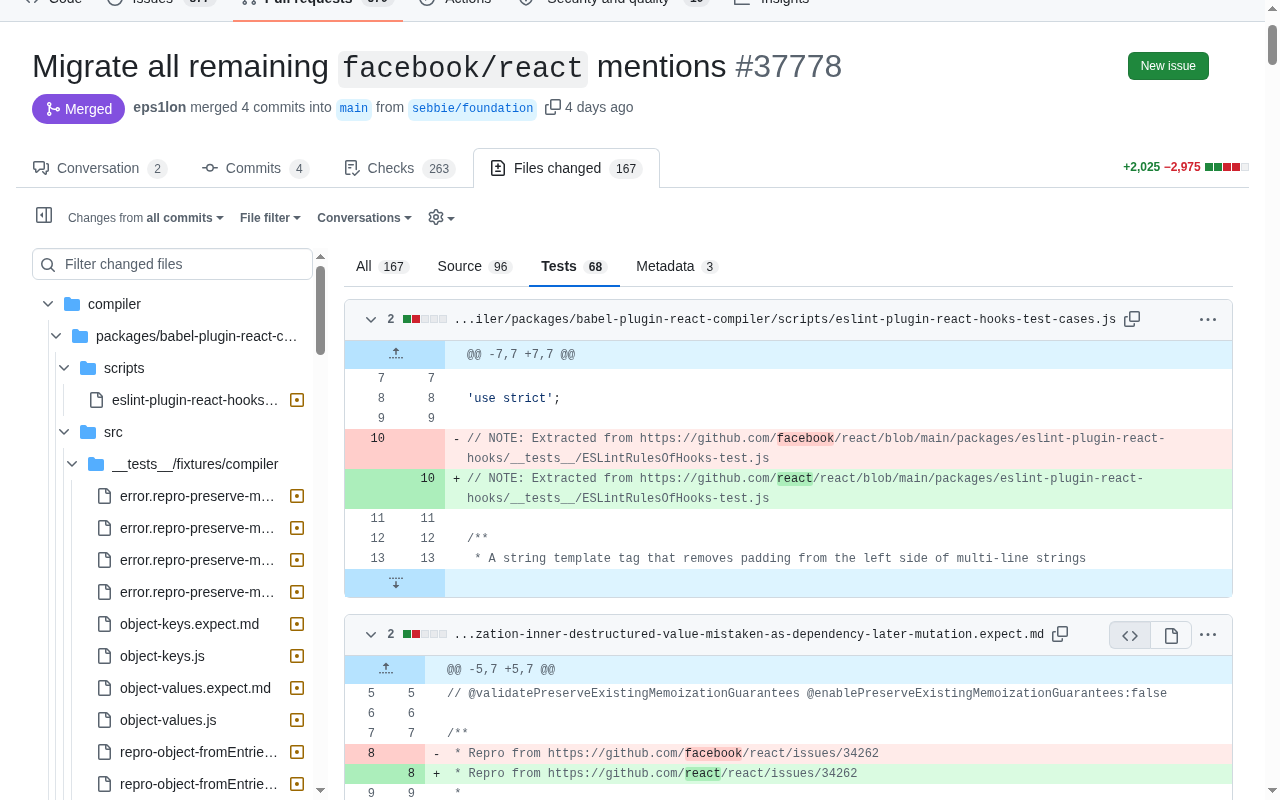
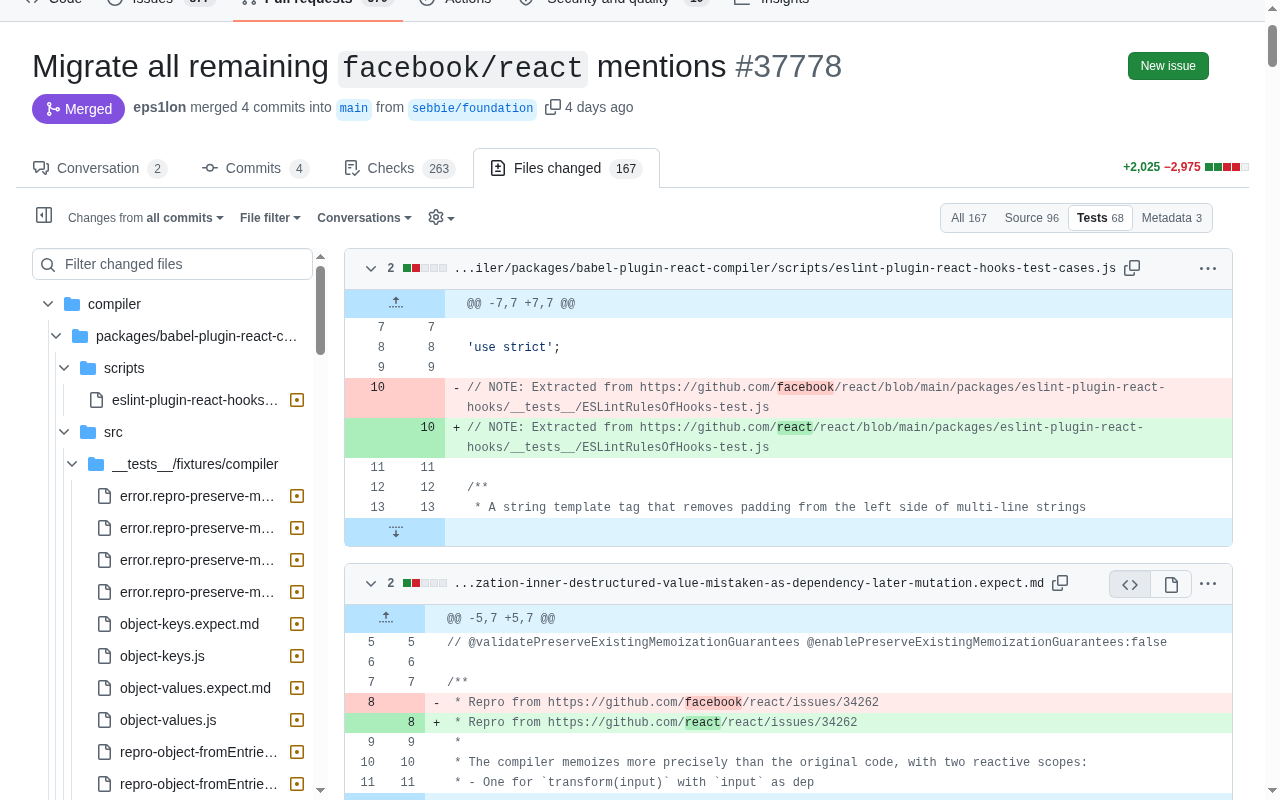
Put the classic page tabs on the "Changes from all commits" row
The tab bar now sits at the end of the classic sticky toolbar row, right-aligned,
and collapses to a dropdown when the row wraps. Retake the classic store screenshot.

Changed region(s): [[0.25, 0.25, 0.9688, 1.0]]

diff --git a/content.js b/content.js
@@ -396,11 +396,28 @@
     fit(bar);
   }
 
+  // The classic page's sticky toolbar row ("Changes from all commits", File filter, ...).
+  function classicRow() {
+    return document.querySelector('.pr-toolbar .diffbar .d-flex.flex-items-center.flex-wrap');
+  }
+
   // Collapse the buttons into a dropdown when the toolbar row can't hold them all.
   function fit(bar) {
     bar.classList.remove('ghpt-compact');
+    if (!bar.classList.contains('ghpt-inline')) {
+      return;
+    }
+    let row = classicRow();
+    if (row && bar.parentElement === row) {
+      // The classic row wraps instead of overflowing; compact if the bar wrapped to a new line.
+      let first = [...row.children].find((c) => c.offsetWidth > 0);
+      if (first && bar.offsetTop > first.offsetTop + first.offsetHeight / 2) {
+        bar.classList.add('ghpt-compact');
+      }
+      return;
+    }
     let toolbar = bar.closest('section');
-    if (!bar.classList.contains('ghpt-inline') || !toolbar) {
+    if (!toolbar) {
       return;
     }
     let used = 0;
@@ -414,9 +431,19 @@
     }
   }
 
-  // Prefer the sticky toolbar row (left of the viewed counter and Submit review).
+  // Prefer the sticky toolbar row: on the new page left of the viewed counter and Submit review,
+  // on the classic page at the end of the row with "Changes from all commits".
   // Fall back to just above the first diff on pages without that toolbar.
   function placeBar(bar, firstDiff) {
+    let row = classicRow();
+    if (row) {
+      bar.classList.add('ghpt-inline');
+      // Last item of the row, pushed to the right by the bar's auto margin.
+      if (bar.parentElement !== row || row.lastElementChild !== bar) {
+        row.append(bar);
+      }
+      return;
+    }
     let review = [...document.querySelectorAll('button')].find((b) => /Submit review/.test(b.textContent));
     let toolbar = review?.closest('section');
     let anchor = review;

diff --git a/ARCHITECTURE.md b/ARCHITECTURE.md
@@ -154,6 +154,15 @@ out, or with the new page's preview turned off). It works differently:
   URL is `/owner/repo/diffs/<file index>?name=<head sha>&base_sha=...&sha1=...&sha2=...`. Its
   `.js-diff-load` button makes GitHub load it.
 
+### Tab bar placement
+
+New page: first child of the right-hand group in the sticky toolbar (left of the viewed counter
+and Submit review). Classic page: last child of the sticky toolbar row
+(`.pr-toolbar .diffbar .d-flex.flex-wrap`, the row with "Changes from all commits"), pushed
+right by the bar's auto margin. That row wraps rather than overflows, so `fit()` collapses the
+bar to a dropdown when it ends up on a second line. Without either toolbar the bar goes above
+the first diff.
+
 ### Hack 3: classic on demand (page.js + content.js)
 
 Same experiment and condition as hack 1 (PR opens on a tab other than All).
